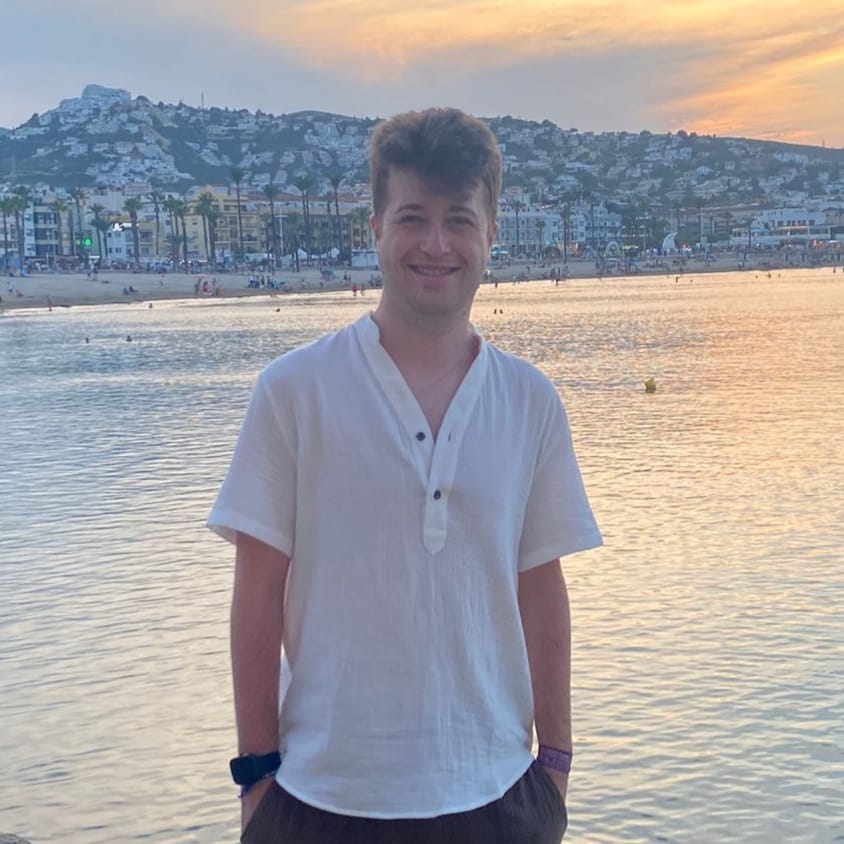
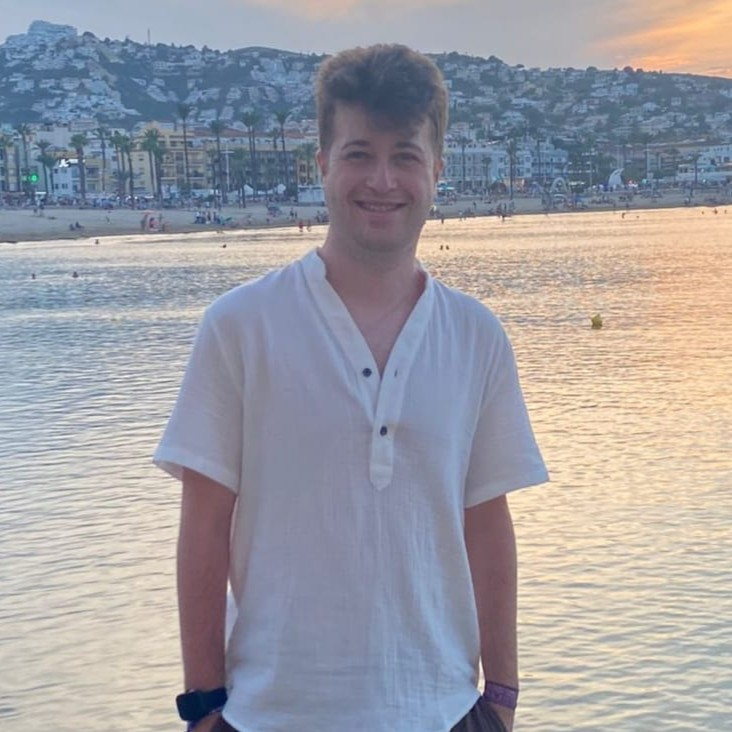
new foto

diff --git a/src/app/app.component.html b/src/app/app.component.html
@@ -274,7 +274,8 @@
 
             <div class="absolute inset-0 bg-[var(--primary-color-25)] rounded-full blur-2xl animate-pulse"></div>
 
-            <img src="../assets/img/perfil5.jpeg" alt="Profile" class="rounded-full w-full h-full object-cover 
+            <img [src]="mode == 'dark' ? '../assets/img/perfil4.jpeg' : '../assets/img/perfil5.jpeg'" alt="Profile"
+              class="rounded-full w-full h-full object-cover 
              border-4 border-[var(--primary-color-50)] 
              relative z-10 transition-transform hover:scale-105 duration-500">
 
